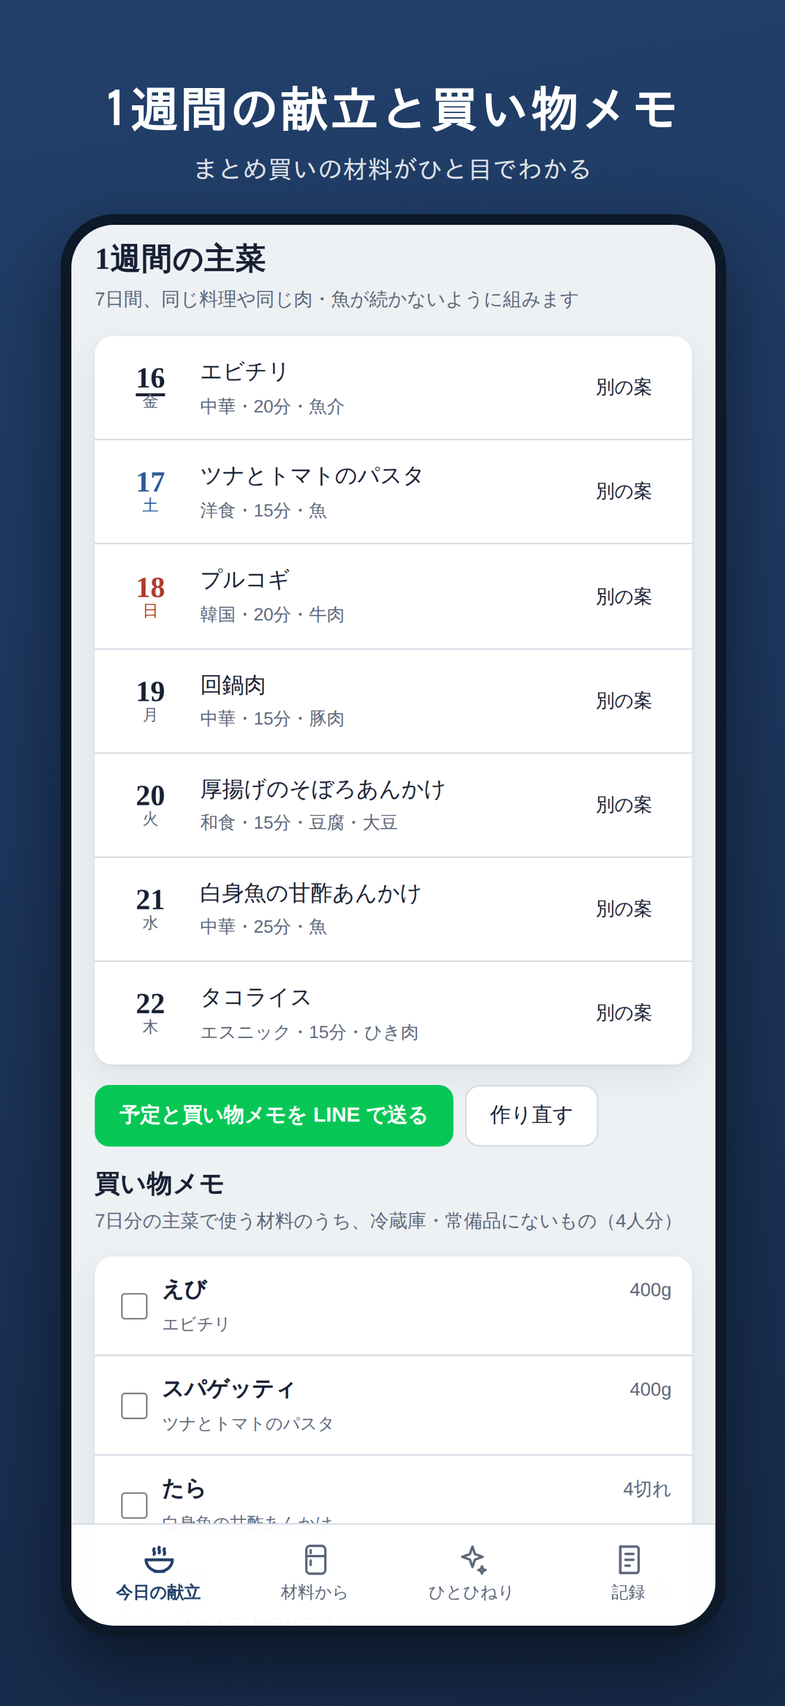
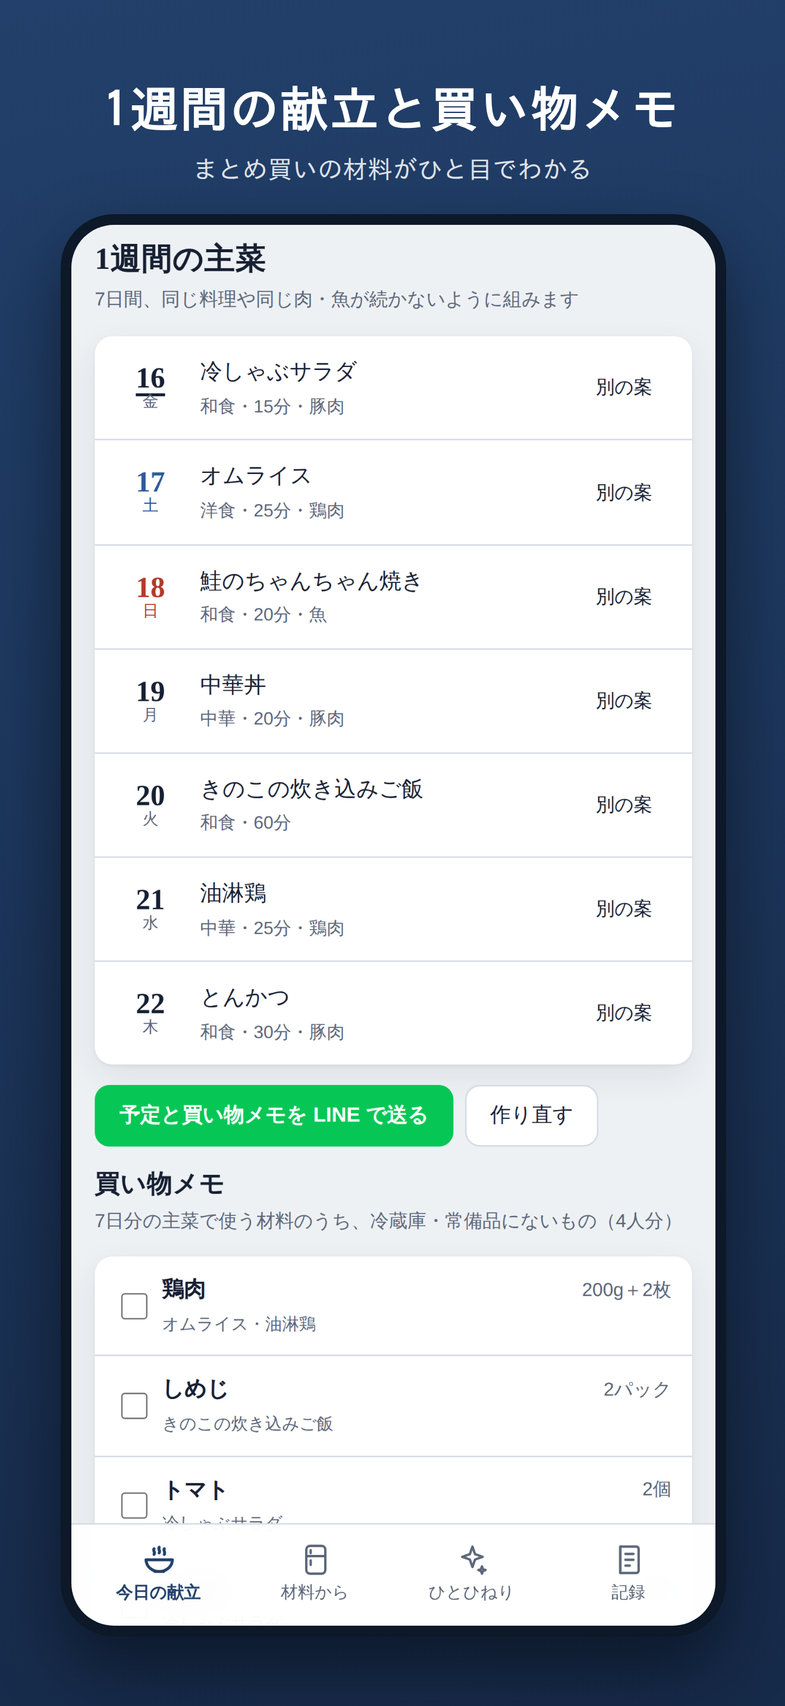
料理の絵を鉛筆画からポップなイラストに変更し、参考写真もポップなイラストに変換
- アプリが描く絵: 太くきれいな輪郭（重なった具材の線は隠れる）、鮮やかなぬり、つや、やわらかい影
- Wikipedia の参考写真: 端末の中で一度だけ、輪郭を残すぼかし → 色みはそのままに明るさを数段階のぬり分け＋鮮やかに → くっきりした輪郭に太い線、でイラスト化して保存。変換前・変換できない写真はアプリが描く絵を表示
- 出典表示を「写真をもとにイラスト化」に。説明文・サポート・プライバシーポリシー・スクリーンショットを更新

Claude-Session: https://claude.ai/code/session_019mhum2xsvshQ35w91Npja8

diff --git a/gohancho/index.html b/gohancho/index.html
@@ -360,7 +360,7 @@ nav.tabs button[aria-selected="true"] svg{stroke-width:2}
 .shop .q{font-size:.8rem;color:var(--muted);text-align:right;font-variant-numeric:tabular-nums}
 .shop .for{grid-column:2 / 4;font-size:.72rem;color:var(--muted)}
 .shop .shop-row.done .nm,.shop .shop-row.done .q{text-decoration:line-through;color:var(--muted)}
-/* 鉛筆画 */
+/* 料理のイラスト */
 .vessel .food.svg{background:#fbf8f1}
 @keyframes rise{from{transform:translateY(8px)}to{transform:none}}
 .pop{animation:rise .28s ease-out}
@@ -393,34 +393,15 @@ nav.tabs button[aria-selected="true"] svg{stroke-width:2}
 </nav>
 <div id="modal-root"></div>
 <div id="sheet-root"></div>
-<!-- 鉛筆画のための共通フィルター（料理のイラストと参考写真で使う） -->
+<!-- ポップなイラストのための共通フィルター -->
 <svg width="0" height="0" style="position:absolute" aria-hidden="true" focusable="false">
   <defs>
-    <!-- 色鉛筆のぬり: 輪郭を少しゆらし、紙に引っかかった筆圧のムラ（ざらつき）を出す -->
-    <filter id="pencil-fill" x="-10%" y="-10%" width="120%" height="120%" color-interpolation-filters="sRGB">
-      <feTurbulence type="fractalNoise" baseFrequency=".07" numOctaves="2" seed="3" result="wn"/>
-      <feDisplacementMap in="SourceGraphic" in2="wn" scale="2.4" xChannelSelector="R" yChannelSelector="G" result="wob"/>
-      <feColorMatrix in="wob" type="saturate" values=".8" result="sat"/>
-      <feComponentTransfer in="sat" result="col"><feFuncR type="linear" slope=".9" intercept=".09"/><feFuncG type="linear" slope=".9" intercept=".09"/><feFuncB type="linear" slope=".9" intercept=".08"/></feComponentTransfer>
-      <feTurbulence type="fractalNoise" baseFrequency="1.3 .16" numOctaves="2" seed="7" result="gr"/>
-      <feColorMatrix in="gr" type="matrix" values="0 0 0 0 0  0 0 0 0 0  0 0 0 0 0  -1.7 0 0 0 1.72" result="gm"/>
-      <feComposite in="col" in2="gm" operator="in"/>
+    <!-- 色を少し鮮やかに -->
+    <filter id="pop-fill" color-interpolation-filters="sRGB"><feColorMatrix type="saturate" values="1.25"/></filter>
+    <!-- 料理全体のやわらかい影（皿から少し浮いて見える） -->
+    <filter id="pop-shadow" x="-15%" y="-15%" width="130%" height="135%" color-interpolation-filters="sRGB">
+      <feDropShadow dx="0" dy="1.6" stdDeviation="1.1" flood-color="#3a2416" flood-opacity=".32"/>
     </filter>
-    <!-- 鉛筆の線: 手でなぞったようなゆれと、かすれ -->
-    <filter id="pencil-line" x="-10%" y="-10%" width="120%" height="120%" color-interpolation-filters="sRGB">
-      <feTurbulence type="fractalNoise" baseFrequency=".09" numOctaves="2" seed="11" result="wn"/>
-      <feDisplacementMap in="SourceGraphic" in2="wn" scale="1.6" xChannelSelector="R" yChannelSelector="G" result="wob"/>
-      <feTurbulence type="fractalNoise" baseFrequency="1.2" numOctaves="1" seed="5" result="gr"/>
-      <feColorMatrix in="gr" type="matrix" values="0 0 0 0 0  0 0 0 0 0  0 0 0 0 0  -1.6 0 0 0 1.6" result="gm"/>
-      <feComposite in="wob" in2="gm" operator="in"/>
-    </filter>
-    <!-- かげの斜線（ハッチング）。各具材の右下ほど濃く入る -->
-    <pattern id="pencil-hatch" width="2.4" height="2.4" patternUnits="userSpaceOnUse" patternTransform="rotate(38)">
-      <line x1="0" y1="0" x2="0" y2="2.4" stroke="#3b3631" stroke-width=".5"/>
-    </pattern>
-    <linearGradient id="pencil-shade" x1="0" y1="0" x2="1" y2="1">
-      <stop offset=".45" stop-color="#000"/><stop offset="1" stop-color="#fff"/>
-    </linearGradient>
   </defs>
 </svg>
 <div id="toast-root"></div>
@@ -1268,10 +1249,10 @@ function photoOf(r){
     return sketchOf(PHOTOS[r.isTwist ? r.base.id : r.id]);
 }
 
-/* ---- 参考写真を色鉛筆のスケッチに描き直す ----
-   Wikipedia の写真は、端末の中で一度だけ鉛筆画に変換して保存し、以後はそれを表示する。
-   変換が終わるまで・変換できない写真は、手描き風のイラストを表示する（元の写真そのものは出さない）。 */
-const SKETCH = {};          // 元の写真URL → 鉛筆画のURL（null は変換できなかった）
+/* ---- 参考写真をもとに、ポップなイラストに描き直す ----
+   Wikipedia の写真は、端末の中で一度だけ「細部をなめらかに → 明るさを数段階のぬり分けにして鮮やかに → くっきりした輪郭に太い線」でイラスト化して保存し、以後はそれを表示する。
+   変換が終わるまで・変換できない写真は、アプリが描くイラストを表示する（元の写真そのものは出さない）。 */
+const SKETCH = {};          // 元の写真URL → イラスト化した画像のURL（null は変換できなかった）
 const sketchQueue = [];
 let sketchBusy = false;
 function sketchOf(ph){
@@ -1290,8 +1271,9 @@ async function pumpSketches(){
     while (sketchQueue.length){
         const src = sketchQueue.shift();
         try{
-            let blob = await idbDo('readonly', st => st.get(src), 'sketches').catch(() => null);
-            if (!blob){ blob = await pencilSketch(src); idbDo('readwrite', st => st.put(blob, src), 'sketches').catch(() => {}); }
+            const key = 'pop3:' + src;
+            let blob = await idbDo('readonly', st => st.get(key), 'sketches').catch(() => null);
+            if (!blob){ blob = await popIllustrate(src); idbDo('readwrite', st => st.put(blob, key), 'sketches').catch(() => {}); }
             SKETCH[src] = URL.createObjectURL(blob);
         }catch(e){ SKETCH[src] = null; }
         scheduleRender();
@@ -1307,67 +1289,81 @@ function scheduleRender(){
         if (modalId) renderModal();
     }, 250);
 }
-function pencilSketch(src){
+function popIllustrate(src){
     return new Promise((resolve, reject) => {
         const img = new Image();
         img.crossOrigin = 'anonymous';
         img.onerror = () => reject(new Error('load'));
         img.onload = () => {
             try{
-                const k = Math.min(1, 560 / Math.max(img.naturalWidth, img.naturalHeight));
-                const W = Math.max(1, Math.round(img.naturalWidth * k)), H = Math.max(1, Math.round(img.naturalHeight * k));
+                const k = Math.min(1, 520 / Math.max(img.naturalWidth, img.naturalHeight));
+                const W = Math.max(1, Math.round(img.naturalWidth * k)), H = Math.max(1, Math.round(img.naturalHeight * k)), n = W * H;
                 const cv = document.createElement('canvas'); cv.width = W; cv.height = H;
                 const ctx = cv.getContext('2d', {willReadFrequently: true});
                 ctx.drawImage(img, 0, 0, W, H);
-                const im = ctx.getImageData(0, 0, W, H), d = im.data, n = W * H;   // 他サイトの画像で許可がない場合はここで例外 → イラスト表示
-                const gray = new Float32Array(n), inv = new Float32Array(n);
-                for (let i = 0; i < n; i++){ const g = .3 * d[i*4] + .59 * d[i*4+1] + .11 * d[i*4+2]; gray[i] = g; inv[i] = 255 - g; }
-                const blur = boxBlur(inv, W, H, Math.max(3, Math.round(W / 70)));
-                let seed = 1234567;
-                const rnd = () => (seed = (seed * 1103515245 + 12345) & 0x7fffffff) / 0x7fffffff;
-                const streak = new Float32Array(W + H);   // 斜めの色鉛筆の筆跡
-                for (let t = 0; t < streak.length; t++) streak[t] = .9 + .1 * rnd();
+                const im = ctx.getImageData(0, 0, W, H), d = im.data;     // 許可のない画像はここで例外 → イラスト表示
+                // 1) 細部をなめらかに（輪郭は残すぼかし）
+                let px = new Float32Array(n * 3);
+                for (let i = 0; i < n; i++){ px[i*3] = d[i*4]; px[i*3+1] = d[i*4+1]; px[i*3+2] = d[i*4+2]; }
+                for (let it = 0; it < 3; it++) px = smoothKeepEdges(px, W, H, 3, 26);
+                // 2) 色（色み）はそのままに、明るさだけを数段階にそろえて「ぬり分け」にする → 赤いトマトは赤、緑の野菜は緑のまま
+                const LEVELS = 5, lumS = new Float32Array(n);
                 for (let i = 0; i < n; i++){
-                    const x = i % W, y = (i / W) | 0;
-                    const dodge = Math.min(255, gray[i] * 255 / (256 - blur[i]));      // 覆い焼きで輪郭だけを線に
-                    const line = Math.pow(dodge / 255, 2.2);
-                    const r = d[i*4], g = d[i*4+1], b = d[i*4+2], l = gray[i];
-                    const tex = streak[(x + ((y * .7) | 0)) % streak.length] * (.94 + .06 * rnd());
-                    const col = c => ((l + (c - l) * .62) * .66 + 255 * .34);           // 色は淡く（色鉛筆）
-                    d[i*4]   = Math.min(255, col(r) * line * tex * .985);
-                    d[i*4+1] = Math.min(255, col(g) * line * tex * .972);
-                    d[i*4+2] = Math.min(255, col(b) * line * tex * .945);              // 紙の色（生成り）に寄せる
+                    const r = px[i*3], g = px[i*3+1], b = px[i*3+2];
+                    const L = .3 * r + .59 * g + .11 * b; lumS[i] = L;
+                    const band = Math.min(LEVELS - 1, Math.floor(L / 256 * LEVELS));
+                    const Lq = (band + .62) * 256 / LEVELS;                 // 段階の中ほどへ（少し明るめ）
+                    const f = Lq / Math.max(8, L);
+                    let R = r * f, G = g * f, B = b * f;
+                    const l2 = .3 * R + .59 * G + .11 * B;                   // 鮮やかに
+                    R = l2 + (R - l2) * 1.55; G = l2 + (G - l2) * 1.55; B = l2 + (B - l2) * 1.55;
+                    d[i*4] = Math.max(0, Math.min(255, R + 6)); d[i*4+1] = Math.max(0, Math.min(255, G + 4)); d[i*4+2] = Math.max(0, Math.min(255, B));
+                    d[i*4+3] = 255;
+                }
+                // 3) くっきりした輪郭だけに太い線（明るさの変化が大きい所）
+                const thr = 22, edge = new Uint8Array(n);
+                for (let y = 1; y < H - 1; y++) for (let x = 1; x < W - 1; x++){
+                    const i = y * W + x;
+                    const gx = -lumS[i-W-1] - 2*lumS[i-1] - lumS[i+W-1] + lumS[i-W+1] + 2*lumS[i+1] + lumS[i+W+1];
+                    const gy = -lumS[i-W-1] - 2*lumS[i-W] - lumS[i-W+1] + lumS[i+W-1] + 2*lumS[i+W] + lumS[i+W+1];
+                    if (Math.hypot(gx, gy) / 4 > thr) edge[i] = 1;
+                }
+                const thick = Math.max(1, Math.round(W / 300));
+                for (let y = 0; y < H; y++) for (let x = 0; x < W; x++){
+                    if (!edge[y*W+x]) continue;
+                    for (let dy = -thick; dy <= thick; dy++) for (let dx = -thick; dx <= thick; dx++){
+                        const yy = y + dy, xx = x + dx; if (yy < 0 || yy >= H || xx < 0 || xx >= W) continue;
+                        const q = (yy * W + xx) * 4; d[q] = 74; d[q+1] = 46; d[q+2] = 31;
+                    }
                 }
                 ctx.putImageData(im, 0, 0);
-                cv.toBlob(bl => bl ? resolve(bl) : reject(new Error('blob')), 'image/jpeg', .85);
+                cv.toBlob(bl => bl ? resolve(bl) : reject(new Error('blob')), 'image/png');
             }catch(e){ reject(e); }
         };
         img.src = src;
     });
 }
-function boxBlur(src, W, H, r){
-    let a = src, b = new Float32Array(src.length);
-    for (let pass = 0; pass < 3; pass++){
-        for (let y = 0; y < H; y++){   // 横
-            let acc = 0; const o = y * W;
-            for (let x = -r; x <= r; x++) acc += a[o + Math.min(W - 1, Math.max(0, x))];
-            for (let x = 0; x < W; x++){ b[o + x] = acc / (2 * r + 1); acc += a[o + Math.min(W - 1, x + r + 1)] - a[o + Math.max(0, x - r)]; }
+// 似た色どうしだけを混ぜるぼかし（バイラテラルフィルターの簡易版）。輪郭は残り、面はなめらかになる
+function smoothKeepEdges(px, W, H, r, sigma){
+    const out = new Float32Array(px.length), s2 = 2 * sigma * sigma;
+    for (let y = 0; y < H; y++) for (let x = 0; x < W; x++){
+        const i = (y * W + x) * 3, R = px[i], G = px[i+1], B = px[i+2];
+        let sr = 0, sg = 0, sb = 0, sw = 0;
+        for (let dy = -r; dy <= r; dy += 1) for (let dx = -r; dx <= r; dx += 1){
+            const yy = Math.min(H - 1, Math.max(0, y + dy)), xx = Math.min(W - 1, Math.max(0, x + dx)), j = (yy * W + xx) * 3;
+            const dr = px[j] - R, dg = px[j+1] - G, db = px[j+2] - B;
+            const w = Math.exp(-(dr*dr + dg*dg + db*db) / s2);
+            sr += px[j] * w; sg += px[j+1] * w; sb += px[j+2] * w; sw += w;
         }
-        [a, b] = [b, a];
-        for (let x = 0; x < W; x++){   // 縦
-            let acc = 0;
-            for (let y = -r; y <= r; y++) acc += a[Math.min(H - 1, Math.max(0, y)) * W + x];
-            for (let y = 0; y < H; y++){ b[y * W + x] = acc / (2 * r + 1); acc += a[Math.min(H - 1, y + r + 1) * W + x] - a[Math.max(0, y - r) * W + x]; }
-        }
-        [a, b] = [b, a];
+        out[i] = sr / sw; out[i+1] = sg / sw; out[i+2] = sb / sw;
     }
-    return a;
+    return out;
 }
 function videoSearchUrl(r){ return 'https://www.youtube.com/results?search_query=' + encodeURIComponent((r.isTwist ? r.base.name : r.name).replace(/（.*?）/g,'') + ' 作り方'); }
 function cssUrl(u){ return `url('${String(u).replace(/['"()\\\s]/g, c => encodeURIComponent(c))}')`; }
 function imageSearchUrl(r){ return 'https://www.google.com/search?tbm=isch&q=' + encodeURIComponent(r.name.replace(/（.*?）/g,'') + ' 料理'); }
 function photoNote(){
-    if (Object.keys(PHOTOS).filter(k => k !== 'rice' && k !== 'konomono').length) return '料理の絵の一部は、Wikipedia / Wikimedia Commons の写真をもとに鉛筆画風に加工しています。撮影者とライセンスは各料理の詳細に表示しています。';
+    if (Object.keys(PHOTOS).filter(k => k !== 'rice' && k !== 'konomono').length) return '料理の絵の一部は、Wikipedia / Wikimedia Commons の写真をもとにイラスト化しています。撮影者とライセンスは各料理の詳細に表示しています。';
     return '';
 }
 
@@ -1587,19 +1583,19 @@ function dishSvg(r, opts={}){
     const baseOp = art ? .95 : plated ? 0 : ({'煮':.95,'炒':.8,'和え':.6,'炊':.9,'汁':1}[r.method] || .7);
     const baseShape = under || (opts.plain ? '' : `<path opacity="${baseOp}" d="M50,${cy-R} C${cx+R*.9},${cy-R*.9} ${cx+R*1.05},${cy+R*.5} ${cx+R*.55},${cy+R*.85} C${cx-R*.2},${cy+R*1.1} ${cx-R*1.05},${cy+R*.4} ${cx-R*.95},${cy-R*.3} C${cx-R*.85},${cy-R*.95} ${cx-R*.2},${cy-R*1.05} 50,${cy-R} Z" fill="${base}"/>`);
     const tintShape = tint ? `<circle cx="50" cy="50" r="${R}" fill="${tint}"/>` : '';
-    // 仕上げ: 鉛筆の輪郭の上から色鉛筆でぬり（下の具材の線は上の具材に隠れる）、右下に斜線のかげを入れる
-    const p = 'dz' + (dishSvg.n = (dishSvg.n || 0) + 1);
+    // 仕上げ: 太い輪郭（ぬりの下に引くので、重なった具材の線は隠れる）＋鮮やかなぬり＋つや＋影で、ポップなイラストに
     const side = plated ? sideGarnish(rng) : '';
     const shapes = (under || baseShape) + side + body + over + garnish;
-    // 輪郭は「ぬりのある形」だけをなぞる（線だけの飾りや細部はなぞらない）
+    // 輪郭は「ぬりのある形」だけ（線だけの飾りや細部はなぞらない）
     const asLines = t => t.replace(/<(path|line)\b[^>]*fill="none"[^>]*\/>/g, '').replace(/<line\b[^>]*\/>/g, '')
         .replace(/fill="(?!none)[^"]*"/g, 'fill="none"').replace(/stroke="[^"]*"/g, '').replace(/stroke-width="[^"]*"/g, '').replace(/opacity="[^"]*"/g, '');
-    const asShade = t => t.replace(/fill="(?!none)[^"]*"/g, 'fill="url(#pencil-shade)"').replace(/stroke="[^"]*"/g, 'stroke="none"').replace(/opacity="[^"]*"/g, '');
-    return `<svg viewBox="0 0 100 100" xmlns="http://www.w3.org/2000/svg" class="dish pencil" aria-hidden="true">
-        <defs><mask id="${p}m" maskUnits="userSpaceOnUse" x="0" y="0" width="100" height="100">${asShade((under ? '' : baseShape) + body + over)}</mask></defs>
-        <g filter="url(#pencil-line)" fill="none" stroke="#3b3631" stroke-width=".9" stroke-linejoin="round" stroke-linecap="round" opacity=".75">${asLines(shapes)}</g>
-        <g transform="rotate(-35 50 50)" filter="url(#pencil-fill)"><g transform="rotate(35 50 50)">${shapes}${tintShape}</g></g>
-        <g mask="url(#${p}m)" opacity=".5"><rect width="100" height="100" fill="url(#pencil-hatch)"/></g>
+    const shine = `<ellipse cx="38" cy="32" rx="9" ry="4.5" fill="#fff" opacity=".35" transform="rotate(-30 38 32)"/><circle cx="31" cy="38" r="1.6" fill="#fff" opacity=".5"/>`;
+    return `<svg viewBox="0 0 100 100" xmlns="http://www.w3.org/2000/svg" class="dish pop" aria-hidden="true">
+        <g filter="url(#pop-shadow)">
+            <g fill="none" stroke="#4a2e1f" stroke-width="2.6" stroke-linejoin="round" stroke-linecap="round">${asLines(shapes)}</g>
+            <g filter="url(#pop-fill)">${shapes}${tintShape}</g>
+        </g>
+        ${under ? '' : shine}
     </svg>`;
 }
 function sideGarnish(rng){
@@ -2563,8 +2559,8 @@ function renderModal(){
     const hero = ph && ph.mine
         ? `<img src="${esc(ph.src)}" alt="${esc(r.name + 'の写真（わが家で作ったもの）')}"><div class="cap">わが家の一枚（${esc(jpDate(ph.d))}に登録）</div>`
         : ph
-        ? `<img src="${esc(ph.src)}" alt="${esc((r.isTwist ? r.base.name : r.name) + 'の絵（写真をもとにした鉛筆画）')}">
-           <div class="cap">${r.isTwist ? `元の料理「${esc(r.base.name)}」の絵 ／ ` : ''}写真をもとに鉛筆画風に加工 ／ 撮影: ${esc(ph.artist || '不明')}（${esc(ph.license || 'ライセンス不明')}） <a href="${esc(ph.page)}" target="_blank" rel="noopener">出典: Wikimedia Commons</a></div>`
+        ? `<img src="${esc(ph.src)}" alt="${esc((r.isTwist ? r.base.name : r.name) + 'のイラスト（写真をもとに作成）')}">
+           <div class="cap">${r.isTwist ? `元の料理「${esc(r.base.name)}」の絵 ／ ` : ''}写真をもとにイラスト化 ／ 撮影: ${esc(ph.artist || '不明')}（${esc(ph.license || 'ライセンス不明')}） <a href="${esc(ph.page)}" target="_blank" rel="noopener">出典: Wikimedia Commons</a></div>`
         : `<div class="noimg">${vesselHtml(vesselKind(r), r, true)}</div>`;
     const heroCls = ph ? 'hero' : 'hero illust';
     const genreName = {'和':'和食','洋':'洋食','中':'中華','韓':'韓国','エスニック':'エスニック'}[r.genre] || r.genre;

diff --git a/gohancho/support.html b/gohancho/support.html
@@ -26,7 +26,7 @@ summary{cursor:pointer;font-weight:700} p,li{font-size:.95rem} .muted{color:var(
 <details><summary>苦手な食材やアレルギーがある</summary><p>設定の「苦手な食材」で選んだ食材を使う料理は献立に出しません。アレルギーがある場合は、調味料や加工品の原材料も必ずご自身でお確かめください。</p></details>
 <details><summary>ごはん帖プラスを解約したい</summary><p>iPhone の「設定」→ 一番上の自分の名前 →「サブスクリプション」→「ごはん帖」から解約できます。最初の7日間の無料期間中に解約すれば、料金はかかりません。</p></details>
 <details><summary>機種変更したら購入はどうなりますか？</summary><p>同じ Apple ID でサインインし、設定の「購入を復元」を押してください。献立の記録は、設定の「データの引っ越し・バックアップ」で移せます。</p></details>
-<details><summary>料理の絵について</summary><p>料理の絵は、色鉛筆で描いたような手描きのイラストです。一部の料理は Wikipedia / Wikimedia Commons の写真をもとに、端末の中で鉛筆画風に加工して表示し、撮影者とライセンスを表示しています。「作った料理を撮って登録」で、ご自身の写真にもできます（端末の中だけに保存されます）。</p></details>
+<details><summary>料理の絵について</summary><p>料理の絵は、ひと目でわかるポップなイラストです。一部の料理は Wikipedia / Wikimedia Commons の写真をもとに、端末の中でイラスト化して表示し、撮影者とライセンスを表示しています。「作った料理を撮って登録」で、ご自身の写真にもできます（端末の中だけに保存されます）。</p></details>
 
 <h2>お問い合わせ</h2>
 <p>【連絡先メールアドレス】まで、端末の機種と iOS のバージョン、困っている内容をお送りください。</p>

diff --git a/gohancho/privacy.html b/gohancho/privacy.html
@@ -26,7 +26,7 @@ table{border-collapse:collapse;width:100%;font-size:.9rem} td,th{border-top:1px 
 <h2>2. 外部サービスとの通信</h2>
 <div class="wrap"><table>
 <tr><th>通信先</th><th>目的</th><th>送られる情報</th></tr>
-<tr><td>Wikipedia / Wikimedia Commons</td><td>料理の参考写真（端末の中で鉛筆画風に加工して表示）と、その撮影者・ライセンスの取得</td><td>料理名（記事名）と、通信に伴う IP アドレス等</td></tr>
+<tr><td>Wikipedia / Wikimedia Commons</td><td>料理の参考写真（端末の中でイラスト化して表示）と、その撮影者・ライセンスの取得</td><td>料理名（記事名）と、通信に伴う IP アドレス等</td></tr>
 <tr><td>Google Fonts</td><td>画面の文字（フォント）の読み込み</td><td>通信に伴う IP アドレス等</td></tr>
 <tr><td>YouTube / Google 検索</td><td>「作り方の動画を探す」「完成写真を画像検索」を押したときのみ</td><td>料理名（検索語）と、通信に伴う IP アドレス等</td></tr>
 <tr><td>Apple（App Store）・RevenueCat</td><td>有料プランを導入した場合の購入と、購入状況の確認</td><td>購入に必要な情報（匿名の利用者ID・購入履歴）</td></tr>

diff --git a/ios-app/appstore/metadata.md b/ios-app/appstore/metadata.md
@@ -79,7 +79,7 @@
 利用規約: https://www.apple.com/legal/internet-services/itunes/dev/stdeula/
 プライバシーポリシー: https://akb69bka-tech.github.io/toresabi/gohancho/privacy.html
 
-料理の絵は、色鉛筆で描いたような手描きのイラストです。一部の料理は Wikipedia / Wikimedia Commons の写真をもとに鉛筆画風に加工し、撮影者とライセンスを表示しています。アレルギーがある場合は、調味料や加工品の原材料も必ずご自身でお確かめください。
+料理の絵は、ひと目でわかるポップなイラストです。一部の料理は Wikipedia / Wikimedia Commons の写真をもとにイラスト化し、撮影者とライセンスを表示しています。アレルギーがある場合は、調味料や加工品の原材料も必ずご自身でお確かめください。
 ```
 
 ## キーワード（100文字まで、カンマ区切り・空白なし）
@@ -137,7 +137,7 @@ Main features:
 - Optional daily local notification reminder (Settings > 毎日のお知らせ).
 - Users can photograph their own dishes (stored on device only).
 
-No account or login is required. Dish images are colored-pencil style illustrations drawn in code; some are pencil-sketch renderings of Wikimedia Commons photos, shown with author and license attribution and a note that they were modified.
+No account or login is required. Dish images are flat pop-style illustrations drawn in code; some are illustrated renderings of Wikimedia Commons photos, shown with author and license attribution and a note that they were modified.
 
 In-app purchase: "ごはん帖プラス" auto-renewable subscription (monthly / yearly) with a 1-week free introductory offer. To view the paywall: tap the gear icon (top right) > "ごはん帖プラスを見る", or tap a locked day in "1週間の主菜". "購入を復元" (Restore Purchases) is on the same screen.
 ```
